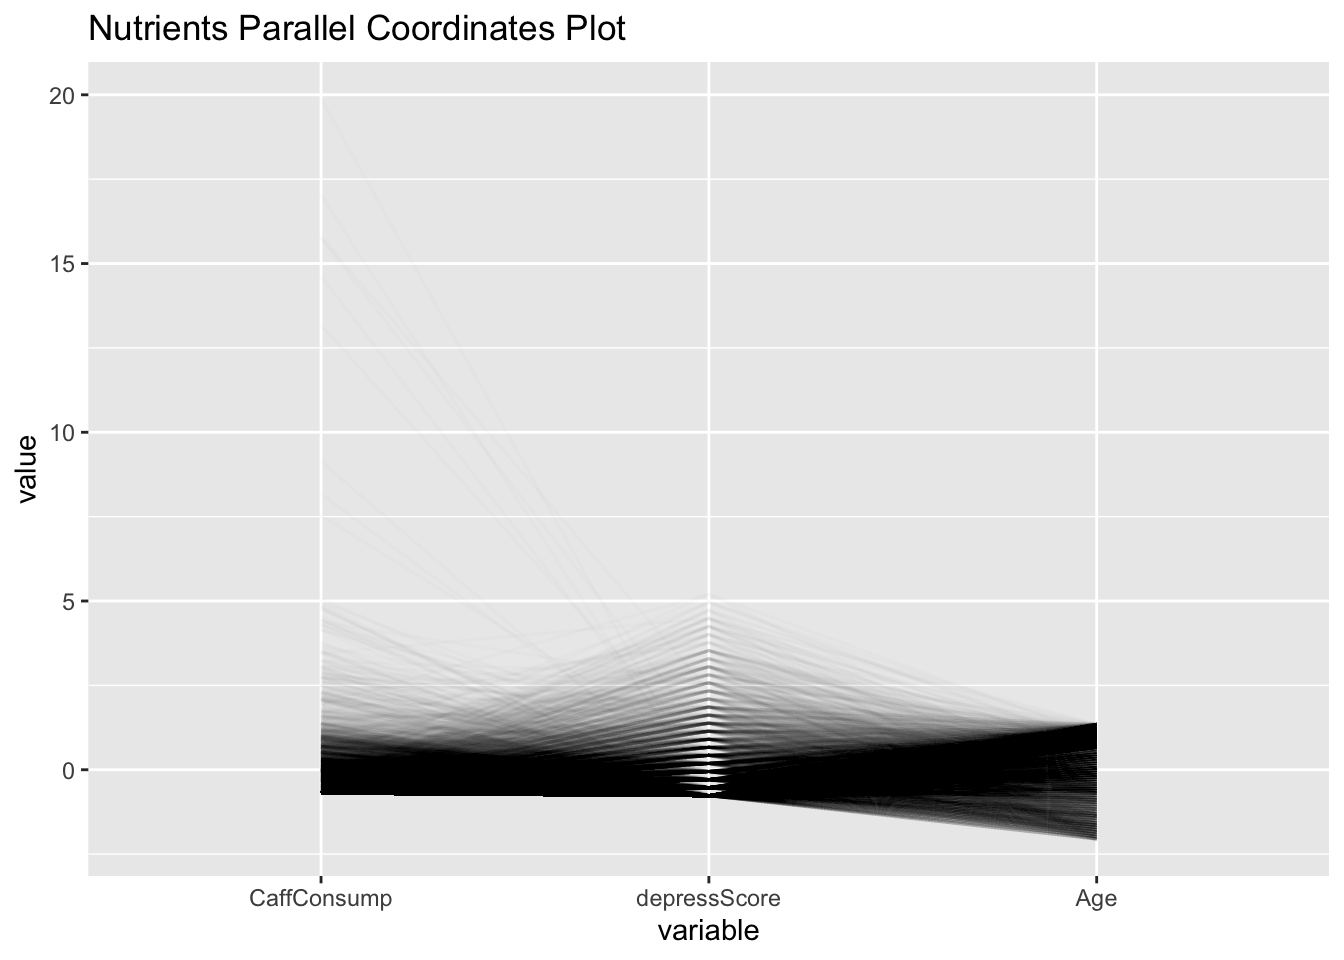
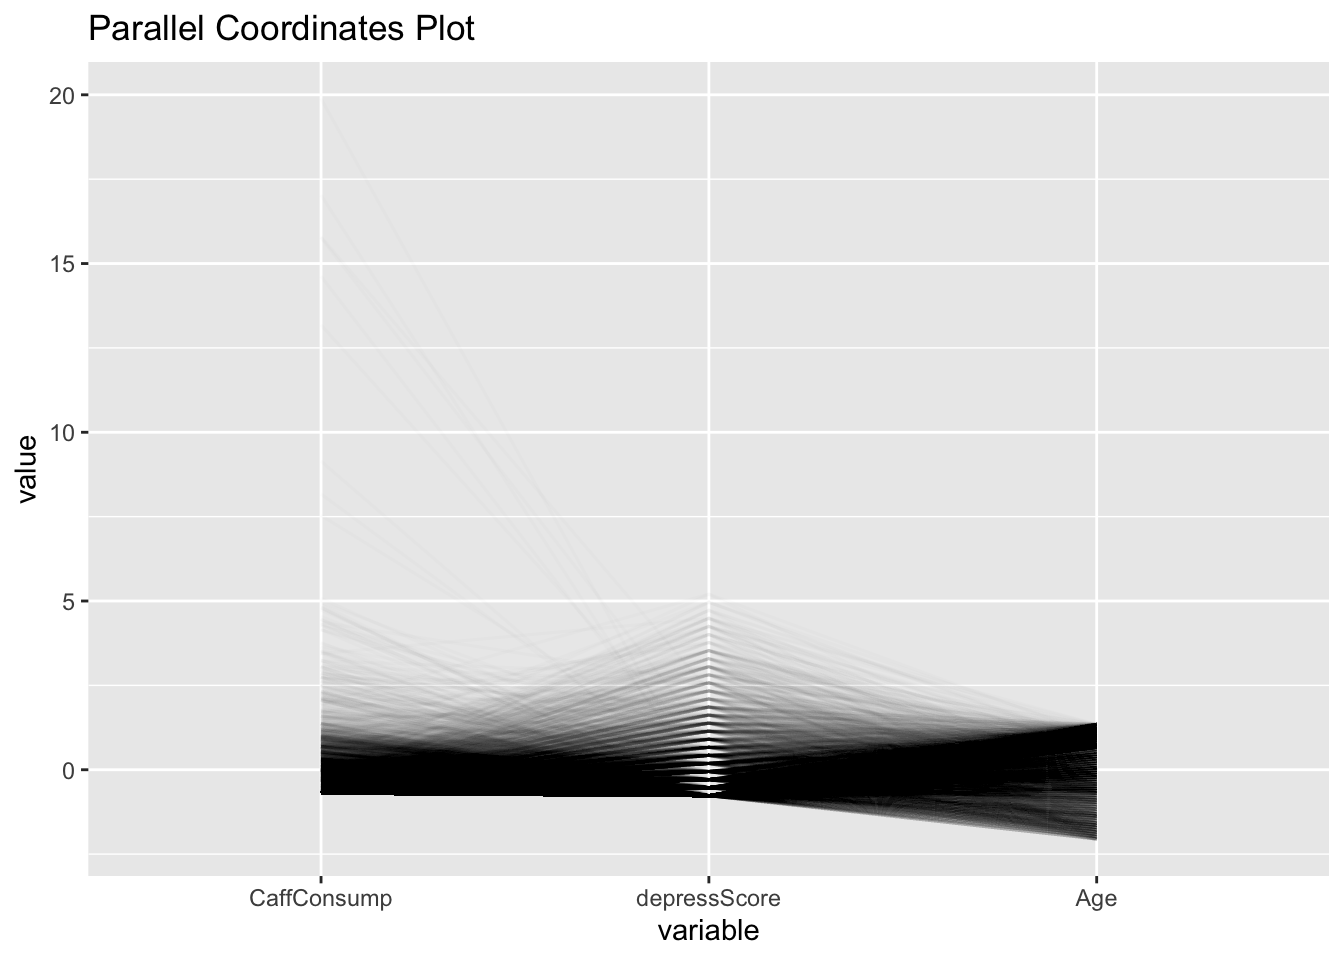
Update

Changed region(s): [[0.0625, 0.0, 0.4688, 0.0625]]

diff --git a/docs/results.html b/docs/results.html
@@ -386,7 +386,7 @@ pre > code.sourceCode > span > a:first-child::before { text-decoration: underlin
 <details>
 <summary>Code</summary>
 <div class="sourceCode cell-code" id="cb9"><pre class="sourceCode r code-with-copy"><code class="sourceCode r"><span id="cb9-1"><a href="#cb9-1" aria-hidden="true" tabindex="-1"></a><span class="fu">library</span>(GGally)</span>
-<span id="cb9-2"><a href="#cb9-2" aria-hidden="true" tabindex="-1"></a><span class="fu">ggparcoord</span>(<span class="at">data =</span> merged_info, <span class="at">columns =</span> <span class="fu">c</span>(<span class="dv">2</span>,<span class="dv">12</span>,<span class="dv">15</span>),<span class="at">alphaLines =</span> <span class="fl">0.01</span>) <span class="sc">+</span> <span class="fu">ggtitle</span>(<span class="st">'Nutrients Parallel Coordinates Plot'</span>)</span></code><button title="Copy to Clipboard" class="code-copy-button"><i class="bi"></i></button></pre></div>
+<span id="cb9-2"><a href="#cb9-2" aria-hidden="true" tabindex="-1"></a><span class="fu">ggparcoord</span>(<span class="at">data =</span> merged_info, <span class="at">columns =</span> <span class="fu">c</span>(<span class="dv">2</span>,<span class="dv">12</span>,<span class="dv">15</span>),<span class="at">alphaLines =</span> <span class="fl">0.01</span>) <span class="sc">+</span> <span class="fu">ggtitle</span>(<span class="st">'Parallel Coordinates Plot'</span>)</span></code><button title="Copy to Clipboard" class="code-copy-button"><i class="bi"></i></button></pre></div>
 </details>
 <div class="cell-output-display">
 <p><img src="results_files/figure-html/unnamed-chunk-11-1.png" class="img-fluid" width="672"></p>
